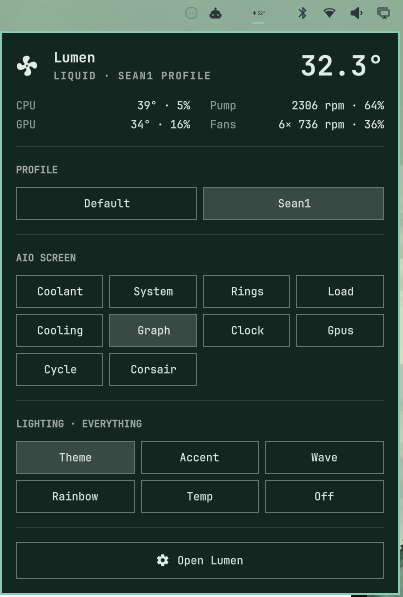
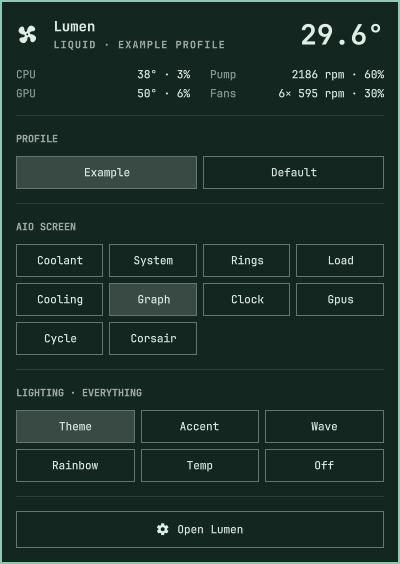
Marketing preview image, and a fresh panel screenshot

diff --git a/README.md b/README.md
@@ -2,7 +2,9 @@
 
 An [Omarchy](https://omarchy.org) bar widget for [lumen](https://github.com/pxSean/lumen), which controls a Corsair iCUE LINK System Hub and the iCUE LINK AIO LCD screen on Linux.
 
-<p align="center"><img src="preview.jpg" width="640" alt="An iCUE LINK AIO pump head showing lumen's graph screen: CPU and GPU temperature in one lane, RAM in another, over the Omarchy wallpaper"></p>
+<p align="center"><img src="preview.png" width="720" alt="The Lumen panel between two AIO screens rendered by lumen: a temperature graph and CPU and GPU rings"></p>
+
+There's a [photo of a real AIO screen](https://github.com/pxSean/lumen#lcd-screens) in lumen's README.
 
 The bar shows a fan icon and the coolant temperature, or another reading you pick. It turns the urgent color while lumen's coolant safety override is running fans and pump at full speed.
 
